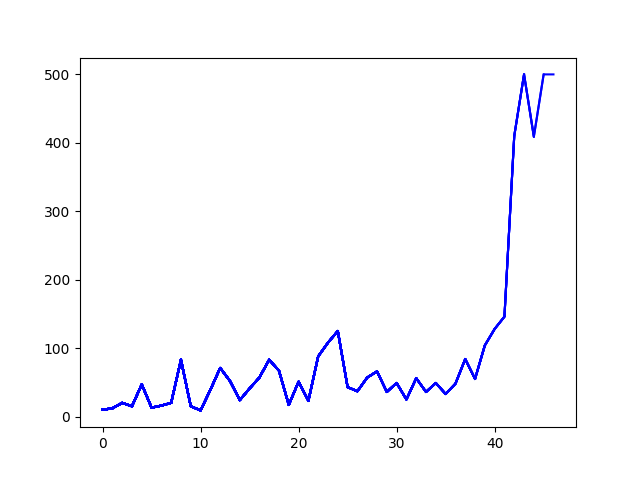
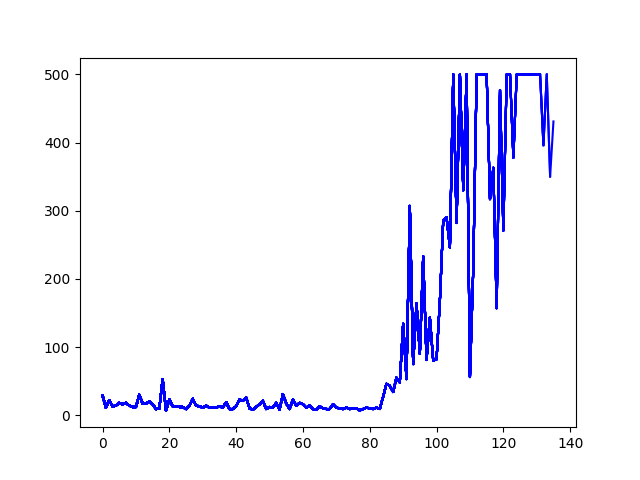
updated outputs of DQN and DDQN

diff --git a/12-double-dqn/cartpole_ddqn.py b/12-double-dqn/cartpole_ddqn.py
@@ -18,7 +18,7 @@ class DoubleDQNAgent:
     def __init__(self, state_size, action_size):
         # if you want to see Cartpole learning, then change to True
         self.render = False
-        self.load_model = True
+        self.load_model = False
         # get size of state and action
         self.state_size = state_size
         self.action_size = action_size
@@ -26,6 +26,7 @@ class DoubleDQNAgent:
         # these is hyper parameters for the Double DQN
         self.discount_factor = 0.99
         self.learning_rate = 0.001
+        self.learning_rate_decay = 0.0
         self.epsilon = 1.0
         self.epsilon_decay = 0.999
         self.epsilon_min = 0.01
@@ -56,7 +57,7 @@ class DoubleDQNAgent:
         model.add(Dense(self.action_size, activation='linear',
                         kernel_initializer='he_uniform'))
         model.summary()
-        model.compile(loss='mse', optimizer=Adam(lr=self.learning_rate))
+        model.compile(loss='mse', optimizer=Adam(lr=self.learning_rate, decay=self.learning_rate_decay))
         return model
 
     # after some time interval update the target model to be same with model
@@ -168,7 +169,7 @@ if __name__ == "__main__":
                 scores.append(score)
                 episodes.append(e)
                 pylab.plot(episodes, scores, 'b')
-                pylab.savefig("./save_graph/cartpole_ddqn.png")
+                pylab.savefig("./save_graph/cartpole_ddqn2.png")
                 print("episode:", e, "  score:", score, "  memory length:",
                       len(agent.memory), "  epsilon:", agent.epsilon)
 
@@ -179,4 +180,4 @@ if __name__ == "__main__":
 
         # save the model
         if e % 50 == 0:
-            agent.model.save_weights("./save_model/cartpole_ddqn.h5")
+            agent.model.save_weights("./save_model/cartpole_ddqn2.h5")

diff --git a/11-dqn/cartpole_dqn.py b/11-dqn/cartpole_dqn.py
@@ -27,6 +27,7 @@ class DQNAgent:
         # These are hyper parameters for the DQN
         self.discount_factor = 0.99
         self.learning_rate = 0.001
+        self.learning_rate_decay = 0.0
         self.epsilon = 1.0
         self.epsilon_decay = 0.999
         self.epsilon_min = 0.01
@@ -57,7 +58,7 @@ class DQNAgent:
         model.add(Dense(self.action_size, activation='linear',
                         kernel_initializer='he_uniform'))
         model.summary()
-        model.compile(loss='mse', optimizer=Adam(lr=self.learning_rate))
+        model.compile(loss='mse', optimizer=Adam(lr=self.learning_rate, decay=self.learning_rate_decay))
         return model
 
     # after some time interval update the target model to be same with model
